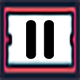
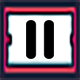
(Add) Asset pause menu

diff --git a/src/tools/objects_handling.c b/src/tools/objects_handling.c
@@ -13,12 +13,9 @@ void init_objects(sys_t *sys)
 
 	for (i = 0; i < 100; i++)
 		sys->obj[i] = NULL;
-	sys->obj[0] = add_obj("assets/img/hud/bg_menu.png",
-	(sfVector2f){0, 0}, (sfIntRect){0, 0, 1920, 1080});
-	sys->obj[1] = add_obj("assets/img/hud/bg.png",
-	(sfVector2f){0, 0}, (sfIntRect){0, 0, 1920, 1080});
-	sys->obj[2] = add_obj("assets/img/hud/coin.png",
-	(sfVector2f){115, 5}, (sfIntRect){0, 0, 50, 50});
+	sys->obj[0] = add_obj("assets/img/hud/bg_menu.png", (sfVector2f){0, 0}, (sfIntRect){0, 0, 1920, 1080});
+	sys->obj[1] = add_obj("assets/img/hud/bg.png", (sfVector2f){0, 0}, (sfIntRect){0, 0, 1920, 1080});
+	sys->obj[2] = add_obj("assets/img/hud/coin.png", (sfVector2f){115, 5}, (sfIntRect){0, 0, 50, 50});
 	sys->obj[3] = add_obj("assets/img/bubble/apple.png", (sfVector2f){1000, 50}, (sfIntRect){0, 0, 225, 143});
 	sys->obj[4] = add_obj("assets/img/bubble/bananas.png", (sfVector2f){1000, 50}, (sfIntRect){0, 0, 225, 143});
 	sys->obj[5] = add_obj("assets/img/bubble/beer.png", (sfVector2f){1000, 50}, (sfIntRect){0, 0, 225, 143});
@@ -31,10 +28,11 @@ void init_objects(sys_t *sys)
 	sys->obj[11] = add_obj("assets/img/player/P1.png", (sfVector2f){1000, 1000}, (sfIntRect){0, 0, 80, 136});
 	sys->obj[12] = add_obj("assets/img/player/P1.png", (sfVector2f){1100, 1000}, (sfIntRect){0, 0, 80, 136});
 	sys->obj[13] = add_obj("assets/img/player/P1.png", (sfVector2f){1200, 1000}, (sfIntRect){0, 0, 80, 136});
-	sys->obj[14] = add_obj("assets/img/blender/blender_bg.png", (sfVector2f){400, 200}, (sfIntRect){0, 0, 1200, 740});
-	sys->obj[15] = add_obj("assets/img/blender/blender_step1.png", (sfVector2f){400, 200}, (sfIntRect){0, 0, 1200, 740});
-	sys->obj[16] = add_obj("assets/img/blender/blender_step2.png", (sfVector2f){400, 200}, (sfIntRect){0, 0, 1200, 740});
-	sys->obj[17] = add_obj("assets/img/blender/blender_step3.png", (sfVector2f){400, 200}, (sfIntRect){0, 0, 1200, 740});
+
+	sys->obj[14] = add_obj("assets/img/blender/blender_bg.png", (sfVector2f){400, 200}, (sfIntRect){0, 0, 1200, 735});
+	sys->obj[15] = add_obj("assets/img/blender/blender_step1.png", (sfVector2f){400, 200}, (sfIntRect){0, 0, 1200, 735});
+	sys->obj[16] = add_obj("assets/img/blender/blender_step2.png", (sfVector2f){400, 200}, (sfIntRect){0, 0, 1200, 735});
+	sys->obj[17] = add_obj("assets/img/blender/blender_step3.png", (sfVector2f){400, 200}, (sfIntRect){0, 0, 1200, 735});
 
 	sys->obj[98] = add_obj("assets/img/hud/door.png",
 	(sfVector2f){953, 1058}, (sfIntRect){0, 0, 205, 23});
@@ -71,10 +69,8 @@ void init_windowsup(sys_t *sys)
 		sys->wsup[i] = NULL;
 	sys->wsup[0] = add_sup("assets/img/action_bar/marketplace.png",
 	(sfVector2f){400, 200}, (sfIntRect){0, 0, 1096, 780});
-
-	//WSUP DE 1 == MENU PAUSE
-	sys->wsup[1] = add_sup("assets/img/action_bar/recipes.png",
-	(sfVector2f){200, 0}, (sfIntRect){0, 0, 1555, 1080});
+	sys->wsup[1] = add_sup("assets/img/action_bar/pause_menu.png",
+	(sfVector2f){0, 0}, (sfIntRect){0, 0, 1920, 1080});
 	sys->wsup[2] = add_sup("assets/img/action_bar/recipes.png",
 	(sfVector2f){400, 200}, (sfIntRect){0, 0, 1096, 780});
 	sys->wsup[3] = add_sup("assets/img/food/newbar.png",
@@ -93,16 +89,23 @@ void init_text_menu(sys_t *sys)
 	(sfVector2f){500, 550}, "Play", 50);
 	sys->txt[3] = set_text("assets/font/bold.ttf",
 	(sfVector2f){1220, 550}, "Quit", 50);
+
+	sys->txt[4] = set_text("assets/font/bold.ttf",
+	(sfVector2f){790, 10}, "Pause !", 100);
+	sys->txt[5] = set_text("assets/font/bold.ttf",
+	(sfVector2f){150, 920}, "Continue", 50);
+	sys->txt[6] = set_text("assets/font/bold.ttf",
+	(sfVector2f){780, 920}, "Go to home", 50);
+	sys->txt[7] = set_text("assets/font/bold.ttf",
+	(sfVector2f){1550, 920}, "RageQuit", 50);
+
+
 	sys->txt[11] = set_text("assets/font/bold.ttf",
 	(sfVector2f){100, 900}, "Your score : ", 50);
 	sys->txt[12] = set_text("assets/font/bold.ttf",
 	(sfVector2f){650, 150}, "You win !", 120);
 	sys->txt[13] = set_text("assets/font/bold.ttf",
 	(sfVector2f){650, 150}, "You lose !", 120);
-	sys->txt[14] = set_text("assets/font/bold.ttf",
-	(sfVector2f){400, 600}, "RageQuit", 70);
-	sys->txt[15] = set_text("assets/font/bold.ttf",
-	(sfVector2f){1200, 600}, "Restart", 70);
 	sys->txt[16] = set_text("assets/font/bold.ttf",
 	(sfVector2f){200, 400}, "Not enough ingredient in stock", 70);
 	sys->txt[17] = set_text("assets/font/bold.ttf",

diff --git a/src/menu/pause_menu.c b/src/menu/pause_menu.c
@@ -9,20 +9,15 @@
 
 void select_pause_menu(sys_t *sys)
 {
-	int tmp = 0;
-
 	if (sfKeyboard_isKeyPressed(sfKeyLeft)) {
 		sys->select--;
-		tmp++;
 		//sfMusic_play(sys->music_menu);
 	}
 	if (sfKeyboard_isKeyPressed(sfKeyRight)) {
 		sys->select++;
-		tmp++;
 		//sfMusic_play(sys->music_menu);
 	}
-	if (tmp != 0)
-		move_select_menu(sys, 2, 1);
+	move_select_menu(sys, 3, 1);
 }
 
 void choose_game_pause_menu(sys_t *sys)
@@ -37,9 +32,9 @@ void choose_game_pause_menu(sys_t *sys)
 
 void display_text_pause_menu(sys_t *sys)
 {
-	int i = 1;
+	int i = 4;
 
-	for (i = 2; i != 4; i++) {
+	for (i = 4; i != 8; i++) {
 		sfText_setColor(sys->txt[i]->text, sfWhite);
 		sfText_setCharacterSize(sys->txt[i]->text, 60);
 	}
@@ -50,9 +45,10 @@ void display_text_pause_menu(sys_t *sys)
 
 void render_pause_menu(sys_t *sys)
 {
-	//sfRenderWindow_drawSprite(sys->win, sys->obj[0]->sprite, NULL);
-	sfRenderWindow_drawText(sys->win, sys->txt[1]->text, NULL);
-	sfRenderWindow_drawText(sys->win, sys->txt[2]->text, NULL);
-	sfRenderWindow_drawText(sys->win, sys->txt[3]->text, NULL);
+	sfRenderWindow_drawSprite(sys->win, sys->wsup[1]->sprite, NULL);
+	sfRenderWindow_drawText(sys->win, sys->txt[4]->text, NULL);
+	sfRenderWindow_drawText(sys->win, sys->txt[5]->text, NULL);
+	sfRenderWindow_drawText(sys->win, sys->txt[6]->text, NULL);
+	sfRenderWindow_drawText(sys->win, sys->txt[7]->text, NULL);
 	sfRenderWindow_display(sys->win);
 }

diff --git a/src/menu/main_menu.c b/src/menu/main_menu.c
@@ -38,11 +38,11 @@ void display_text_main_menu(sys_t *sys)
 	int i = 1;
 
 	for (i = 2; i != 4; i++) {
-		sfText_setColor(sys->txt[i]->text, sfWhite);
+		sfText_setColor(sys->txt[i]->text, sfBlack);
 		sfText_setCharacterSize(sys->txt[i]->text, 60);
 	}
-	sfText_setColor(sys->txt[sys->select + 1]->text, sfRed);
-	sfText_setCharacterSize(sys->txt[sys->select + 1]->text, 80);
+	sfText_setColor(sys->txt[sys->select + 1]->text, sfMagenta);
+	sfText_setCharacterSize(sys->txt[sys->select + 1]->text, 60);
 	sfClock_restart(sys->clock);
 }
 

diff --git a/src/action_bar/button_function.c b/src/action_bar/button_function.c
@@ -39,9 +39,9 @@ void button_cook(sys_t *sys)
 
 void button_menu(sys_t *sys)
 {
-	if (sys->wsup[1]->key == 0) {
-		sys->wsup[1]->key = 1;
-	} else if (sys->wsup[1]->key == 1) {
+	// if (sys->wsup[1]->key == 0) {
+	// 	sys->wsup[1]->key = 1;
+	if (sys->wsup[1]->key == 1) {
 		sys->wsup[1]->key = 0;
 	}
 }
